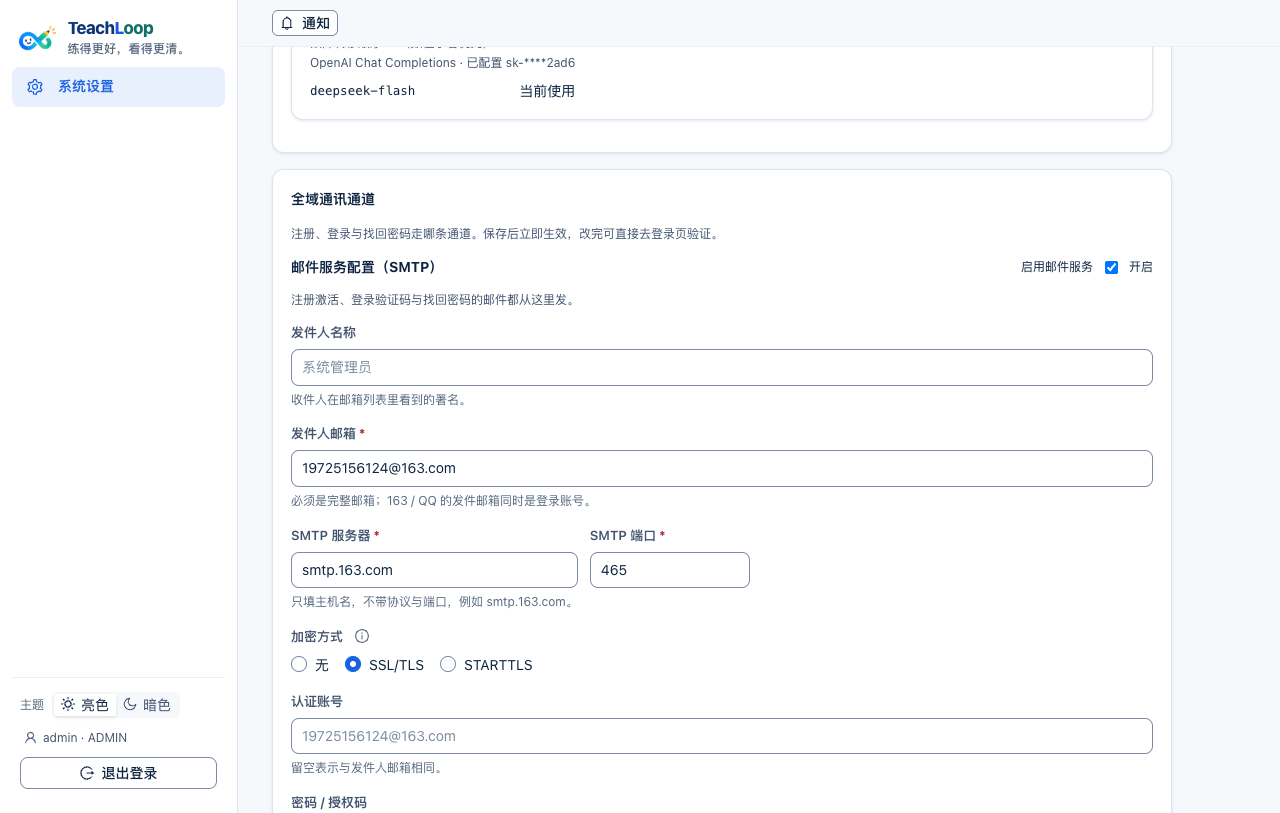
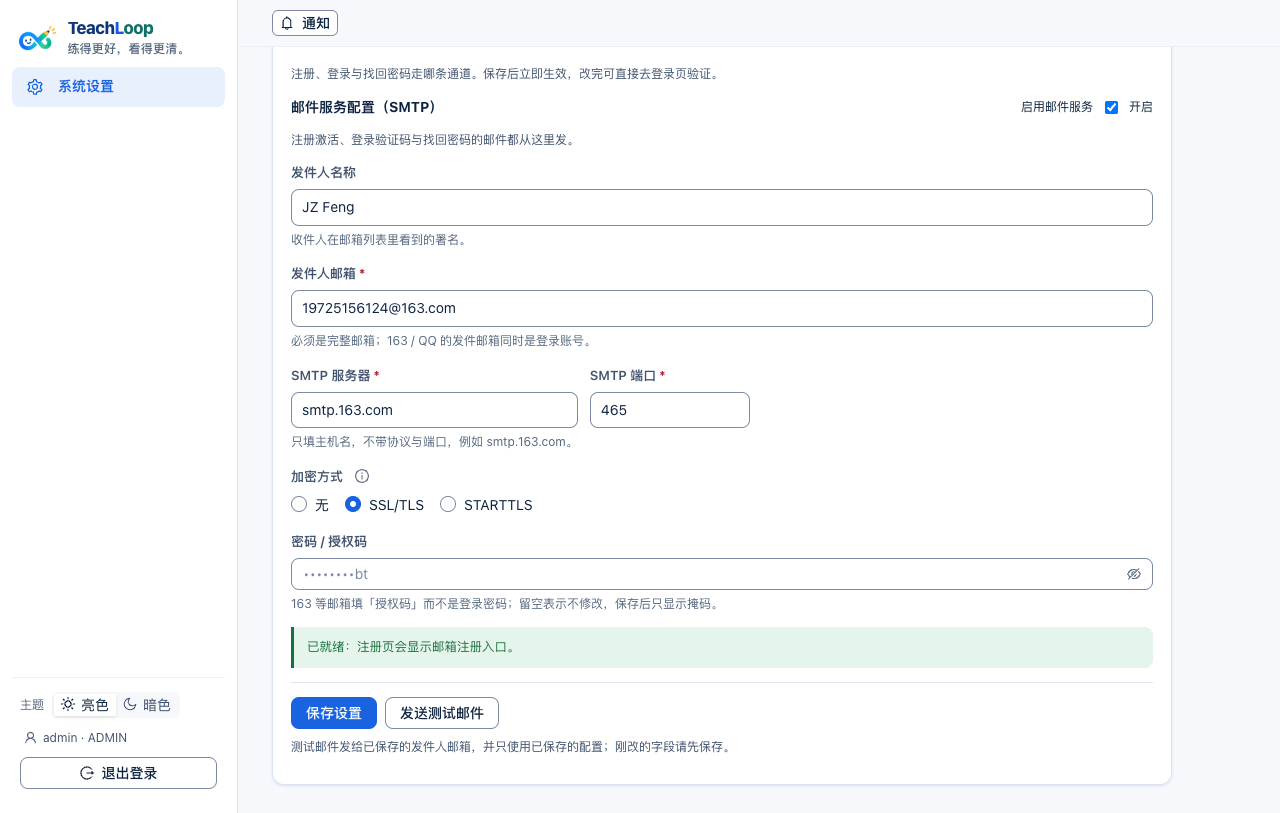
refactor(admin): 邮件通道去掉「认证账号」——登录账号恒等于发件人邮箱
用户 2026-10-28：「直接把认证账号拿掉吧，前面填啥邮箱就用啥，功能简单」。

- 面板从七字段降到六字段；extra 只写 name / encryption
- SmtpEmailChannel 的 AUTH 账号恒取 from_address，extra.user 即使存在也不再读
  （163/QQ 本来就要求发件人与登录账号一致，留一个能填错的字段只会制造失配）
- 表单映射纯函数与 11 条测试同步；dev 浏览器复验：字段只剩六个

验证：tsc 0、email-channel-form 11/11、全量 node --test 152/152、check-ui/check-i18n 0。

diff --git a/web/src/app/emailChannelForm.ts b/web/src/app/emailChannelForm.ts
@@ -6,7 +6,8 @@
  * 映射规则集中在下面两个函数里，页面只负责渲染：
  *   - `from_address` = 发件人邮箱（也是默认认证账号）
  *   - `base_url`     = `${host}:${port}`
- *   - `extra`        = { name, user, encryption }：发件人名称、认证账号、加密方式
+ *   - `extra`        = { name, encryption }：发件人名称、加密方式
+ *   - 认证账号 === 发件人邮箱（2026-10-28 用户：别再单列一个字段，前面填啥邮箱就用啥）
  *
  * 抽成纯函数的原因：web/tests/email-channel-form.test.mjs 能直接断言映射，
  * 不用起浏览器，也不会出现「改了一个字段忘了写回 extra」这种只有上线才发现的问题。
@@ -36,7 +37,6 @@ export interface EmailForm {
   host: string
   port: string
   security: SmtpSecurity
-  username: string
   secret: string
 }
 
@@ -77,7 +77,7 @@ function asSecurity(value: unknown): SmtpSecurity {
   return value === 'starttls' || value === 'none' ? value : 'ssl'
 }
 
-/** 库里的行 → 表单。认证账号不回填发件邮箱：留空由后端回落，改发件人时不会留下旧账号。 */
+/** 库里的行 → 表单。授权码永远不回填（只回掩码）。 */
 export function toEmailForm(row: EmailChannelRow): EmailForm {
   const extra = row.extra ?? {}
   const { host, port } = parseHostPort(row.baseUrl)
@@ -88,7 +88,6 @@ export function toEmailForm(row: EmailChannelRow): EmailForm {
     host,
     port,
     security: asSecurity(extra.encryption),
-    username: text(extra.user),
     secret: '',
   }
 }
@@ -97,7 +96,6 @@ export function toEmailForm(row: EmailChannelRow): EmailForm {
 export function buildEmailUpdate(form: EmailForm, dailyQuota: number | null): EmailUpdateBody {
   const extra: Record<string, string> = { encryption: form.security }
   if (form.fromName.trim()) extra.name = form.fromName.trim()
-  if (form.username.trim()) extra.user = form.username.trim()
   return {
     enabled: form.enabled,
     driver: 'smtp',

diff --git a/web/src/app/IdentityChannelsPanel.tsx b/web/src/app/IdentityChannelsPanel.tsx
@@ -38,7 +38,8 @@ interface TestResult {
  * - 手机短信与微信**只在 UI 隐藏**，后端接口、`identity_channels` 三行数据与驱动枚举都不动，
  *   等资质齐了把这两行放回来即可；
  * - 邮件不再是一行「驱动 + 地址 + 密钥」，而是摊成发件人名称 / 发件人邮箱 / SMTP 服务器 /
- *   端口 / 加密方式 / 认证账号 / 授权码七个字段，并可当场发一封测试邮件。
+ *   端口 / 加密方式 / 授权码六个字段，并可当场发一封测试邮件；
+ *   2026-10-28 当天再简化：**认证账号不再单列**——登录账号就是发件人邮箱。
  *
  * 字段到库的映射全在 `emailChannelForm.ts`，这里只负责渲染。
  */
@@ -175,13 +176,6 @@ export default function IdentityChannelsPanel() {
               <Radio value="ssl">{t('app.channels.securitySsl')}</Radio>
               <Radio value="starttls">{t('app.channels.securityStarttls')}</Radio>
             </Radio.Group>
-          </Field>
-
-          <Field label={t('app.channels.authUser')} hint={t('app.channels.authUserHint')}
-            htmlFor="channel-auth-user">
-            <Input id="channel-auth-user" value={form.username}
-              placeholder={form.fromAddress || t('app.channels.authUserPlaceholder')}
-              onChange={(e) => change({ username: e.target.value })} />
           </Field>
 
           <Field label={t('app.channels.secret')} required={!row.hasSecret}

diff --git a/teachloop-identity/src/main/java/com/teachloop/identity/auth/channel/SmtpEmailChannel.java b/teachloop-identity/src/main/java/com/teachloop/identity/auth/channel/SmtpEmailChannel.java
@@ -14,9 +14,11 @@ import tools.jackson.databind.ObjectMapper;
  *   <li>{@code base_url} = {@code host:port}（缺端口按 465）</li>
  *   <li>{@code from_address} = 发件人邮箱与默认登录账号（163 等要求两者一致）</li>
  *   <li>{@code secret_cipher} = 授权码密文（{@link SecretBox} AES-GCM）</li>
- *   <li>{@code extra} = JSON：{@code {"name":"系统管理员","user":"…","encryption":"ssl"}}，
- *       分别对应管理端的「发件人名称 / 认证账号 / 加密方式」；旧数据没有这一列内容时
- *       name 为空（{@code From:} 只写地址）、user 回落 from_address、encryption 按 ssl。</li>
+ *   <li>{@code extra} = JSON：{@code {"name":"系统管理员","encryption":"ssl"}}，
+ *       对应管理端的「发件人名称 / 加密方式」；旧数据没有这一列内容时
+ *       name 为空（{@code From:} 只写地址）、encryption 按 ssl。</li>
+ *   <li>认证账号**恒等于 from_address**（2026-10-28 用户要求：不再单列）。163/QQ 本来就要求两者一致；
+ *       {@code extra.user} 即使存在也被忽略，免得留下一个改不掉的旧账号。</li>
  * </ul>
  *
  * <p>密钥解不开时 {@link #configured()} 为 false——通道按「未配置」处理，不抛 500（AC-76.4）。
@@ -83,12 +85,8 @@ public class SmtpEmailChannel implements VerificationChannel {
     private SmtpMailSender.Settings settings(IdentityChannelRepository.Row row, String secret) {
         String[] hostPort = splitHostPort(row.baseUrl());
         JsonNode extra = parseExtra(row.extra());
-        String user = text(extra, "user");
-        if (user == null) {
-            user = row.fromAddress();
-        }
         int port = port(hostPort[1]);
-        return new SmtpMailSender.Settings(hostPort[0], port, user, secret, row.fromAddress(),
+        return new SmtpMailSender.Settings(hostPort[0], port, row.fromAddress(), secret, row.fromAddress(),
                 text(extra, "name"), security(text(extra, "encryption")));
     }
 

diff --git a/teachloop-app/src/test/java/com/teachloop/IdentityChannelAdminTest.java b/teachloop-app/src/test/java/com/teachloop/IdentityChannelAdminTest.java
@@ -143,7 +143,7 @@ class IdentityChannelAdminTest {
     }
 
     @Test
-    @DisplayName("邮件 extra（发件人名称 / 认证账号 / 加密方式）保存后按对象回读")
+    @DisplayName("邮件 extra（发件人名称 / 加密方式）保存后按对象回读")
     void emailExtraRoundTrips() throws Exception {
         String base = base();
         adminService.createAdmin("chan-admin5@test.local", "adminpass123");
@@ -152,7 +152,7 @@ class IdentityChannelAdminTest {
         String body = """
                 {"enabled":false,"driver":"smtp","fromAddress":"a@163.com","baseUrl":"smtp.163.com:465",
                  "secret":"code",
-                 "extra":{"name":"系统管理员","user":"a@163.com","encryption":"starttls"}}
+                 "extra":{"name":"系统管理员","encryption":"starttls"}}
                 """;
         HttpResponse<String> put = put(base, "/api/admin/identity-channels/email", admin, body);
         assertThat(put.statusCode()).isEqualTo(200);

diff --git a/docs/reports/2026-10-28-admin-settings/README.md b/docs/reports/2026-10-28-admin-settings/README.md
@@ -10,7 +10,7 @@
 | 1 | 「AI 设置」→**系统设置** | `web/src/locales/{zh-CN,en}.json` 的 `app.settings.*`、`nav.aiSettings`；`nav.ts` 图标换齿轮；路由仍 `/admin/ai`，`/admin/settings` 重定向 |
 | 2 | 两块风格统一 | 通道面板改成 `maxWidth: 900` + `h2` + `p.small muted`，与 AI 卡同一层级 |
 | 3 | 短信 / 微信先隐藏 | `IdentityChannelsPanel.tsx` 只渲染 `channel === 'email'`；后端与 `identity_channels` 三行不动 |
-| 4 | 邮件配置排列表单 | 发件人名称 / 发件人邮箱 / SMTP 服务器 / 端口 / 加密方式（无·SSL/TLS·STARTTLS）/ 认证账号 / 授权码 + 保存设置·发送测试邮件 |
+| 4 | 邮件配置排列表单 | 发件人名称 / 发件人邮箱 / SMTP 服务器 / 端口 / 加密方式（无·SSL/TLS·STARTTLS）/ 授权码 + 保存设置·发送测试邮件（**2026-10-28 二次简化**：认证账号字段去掉，恒等于发件人邮箱） |
 | 5 | 「身份通道」→**全域通讯通道** | `app.channels.title` |
 | 6 | AI 两块并成一块 | `AdminAiPage.tsx`：单卡内分「当前全站模型 / 已配置的模型」 |
 | 7 | 「已加载 N 个模型」改绿色 | `AdminAiPage.tsx` 的 `modelsLoadedOk` → `Alert type=success` |
@@ -18,7 +18,7 @@
 新增能力（第 4 条要用得上就不能只是画个按钮）：
 
 - `SmtpMailSender` 支持三档加密与 `From:` 显示名（RFC 2047）；
-- 三个新字段进 `identity_channels.extra`（jsonb）：`{"name","user","encryption"}`；
+- 三个新字段进 `identity_channels.extra`（jsonb）：`{"name","encryption"}`（`user` 已废弃，认证账号恒等于发件人邮箱）；
 - `POST /api/admin/identity-channels/email/test`：用**已保存**配置给发件人邮箱发一封测试信。
 
 ## 验到哪一档
@@ -28,7 +28,7 @@
 | 证据 | 结论 |
 | :--- | :--- |
 | `01-settings-top.png` | 侧栏与页标题都是「系统设置」；AI 只剩一张卡 |
-| `02-smtp-form.png` / `02b-smtp-form-bottom.png` | 邮件七个字段 + 加密方式单选 + 两个按钮；开关读作「启用邮件服务 ☑ 开启」；短信 / 微信不渲染 |
+| `02-smtp-form.png` / `02b-smtp-form-bottom.png` | 邮件六个字段（无认证账号）+ 加密方式单选 + 两个按钮；开关读作「启用邮件服务 ☑ 开启」；短信 / 微信不渲染 |
 | `03-test-email-sent.png` | 点「发送测试邮件」→ 绿色「测试邮件已发送到 19725156124@163.com · 3794ms」——**真发出去了**（SSL/TLS 465 + 真实授权码） |
 | `04-models-loaded-green.png` | 对接本地假 `/v1/models`（127.0.0.1:8099）→「已加载 2 个模型」是**绿色** |
 

diff --git a/specs/009-registration/tasks.md b/specs/009-registration/tasks.md
@@ -77,7 +77,7 @@ T544 收尾验收
 | T | 任务 | 依赖 | 验收 |
 | :--- | :--- | :--- | :--- |
 | T534 | `GET/PUT /api/admin/identity-channels`：掩码 + `hasSecret` + `secretUnreadable`；保存即生效；写审计 | T521 | 非 ADMIN 403；保存后下一次 `/api/auth/channels` 立即反映；任何响应都不含明文密钥 |
-| T535 | 管理页（嵌在 `/admin/ai` 系统设置页）：**2026-10-28 改版**——标题「全域通讯通道」，短信与微信只在 UI 隐藏（后端与表不动）；邮件摊成「发件人名称 / 发件人邮箱 / SMTP 服务器 / 端口 / 加密方式 / 认证账号 / 授权码」七个字段，并可「发送测试邮件」（`POST /api/admin/identity-channels/email/test`，收件人是已保存的发件人邮箱）。字段↔库的映射抽在 `web/src/app/emailChannelForm.ts` | T534 | 前端可改 email 开关并立刻在登录页生效；密钥输入框只显示掩码；加密方式三档（SSL/STARTTLS/无）真的生效；`web/tests/email-channel-form.test.mjs` 11 条、`IdentityChannelAdminTest` 覆盖 `extra` 回读与未配齐时测试发送 `ok=false` |
+| T535 | 管理页（嵌在 `/admin/ai` 系统设置页）：**2026-10-28 改版**——标题「全域通讯通道」，短信与微信只在 UI 隐藏（后端与表不动）；邮件摊成「发件人名称 / 发件人邮箱 / SMTP 服务器 / 端口 / 加密方式 / 授权码」六个字段（2026-10-28 二次简化：认证账号恒等于发件人邮箱），并可「发送测试邮件」（`POST /api/admin/identity-channels/email/test`，收件人是已保存的发件人邮箱）。字段↔库的映射抽在 `web/src/app/emailChannelForm.ts` | T534 | 前端可改 email 开关并立刻在登录页生效；密钥输入框只显示掩码；加密方式三档（SSL/STARTTLS/无）真的生效；`web/tests/email-channel-form.test.mjs` 11 条、`IdentityChannelAdminTest` 覆盖 `extra` 回读与未配齐时测试发送 `ok=false` |
 
 ## 8. 批 G：前端
 

diff --git a/docs/decisions/028-registration-channels.md b/docs/decisions/028-registration-channels.md
@@ -66,8 +66,12 @@
 落地方式（不新增库表）：
 
 - `identity_channels.base_url` 仍是 `host:port`，`from_address` 仍是发件人邮箱；
-- 三个新字段进 `extra`（jsonb）：`{"name":"发件人名称","user":"认证账号","encryption":"ssl|starttls|none"}`；
+- 两个新字段进 `extra`（jsonb）：`{"name":"发件人名称","encryption":"ssl|starttls|none"}`；
   缺项按老行为回落（名称空 = 只写地址；user 空 = 用发件人邮箱；encryption 缺省 = ssl）；
 - `SmtpMailSender` 支持三档加密（隐式 TLS / STARTTLS / 明文）与 `From:` 显示名（RFC 2047）；
 - 新增 `POST /api/admin/identity-channels/{channel}/test`：用**已保存**的配置给该通道的发件人邮箱发一封测试信，
   不要求 `enabled=true`（先测通再开开关）。
+
+**2026-10-28 当天二次简化**：用户要求「直接把认证账号拿掉吧，前面填啥邮箱就用啥，功能简单」。
+`extra.user` 废弃、不再读写；`SmtpEmailChannel` 的 AUTH 账号恒等于 `from_address`
+（163/QQ 本来就要求两者一致）。面板从七字段降到六字段。
